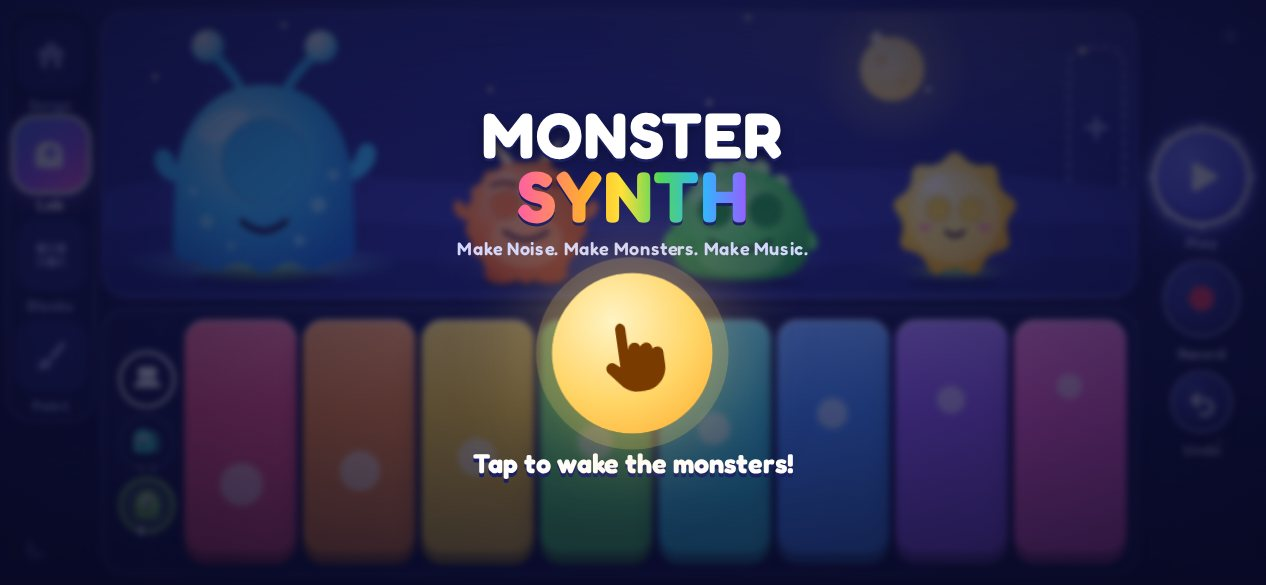
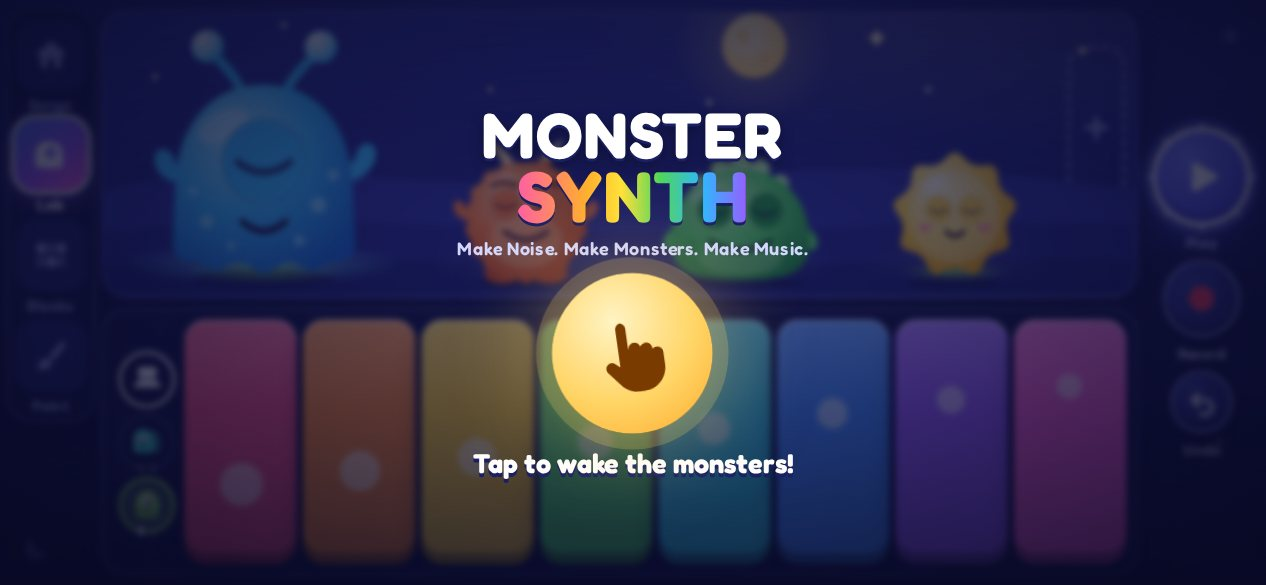
Docs: play time, crash recovery, CLAUDE.md, refreshed screenshots
Claude-Session: https://claude.ai/code/session_01EurLqiisS3gHhUKTWx8FjM

Changed region(s): [[0.5545, 0.0, 0.6469, 0.1538], [0.6777, 0.0615, 0.7393, 0.1846], [0.1848, 0.2769, 0.2464, 0.3077]]

diff --git a/CLAUDE.md b/CLAUDE.md
@@ -1,0 +1,36 @@
+# Monster Synth — working notes
+
+Tablet-first creative music toy for ages 3–10 (React 19 + TypeScript + Vite + Web Audio). Read `README.md` and `docs/` for product and design intent.
+
+## Commands
+
+```bash
+npm run dev          # Vite dev server (port 5173)
+npm run check        # tsc --noEmit + vitest (run before every commit)
+npm run build        # production PWA build → dist/
+npm run build:demo   # single-file embeddable demo → dist-demo/
+npm run e2e          # Playwright checks (needs the dev server running on 127.0.0.1:5173)
+node scripts/touch-check.mjs      # touch events, audio unlock, stuck notes, CPU throttle
+node scripts/audio-levels.mjs     # re-measure preset levels after any sound change
+node scripts/tour.mjs             # screenshots of every screen (phone/tablet/portrait)
+```
+
+Playwright is pinned to 1.56.1 to match the preinstalled Chromium.
+
+## Layer rules (do not break)
+
+- `src/audio/` knows nothing about songs, scales, the store or React.
+- `src/magic/` and `src/model/` are pure: no DOM, no audio nodes. Unit-test them in `tests/`.
+- `src/studio/` is the only place that connects gestures, Monster Magic and the audio engine.
+- UI never touches audio nodes; it calls `studio.*` and listens on `visualBus`.
+
+## Conventions
+
+- Project edits: write a pure function in `src/model/edits.ts`, apply with `commit(p => edit(p, …))` (undo + autosave come for free). Use `{ coalesce: key }` for sliders/swipes, `{ undoable: false }` only inside a `beginGroup`/`endGroup` pair.
+- Zustand selectors must return stable references (select the slice, derive in render) — a selector that builds a new array/object each call loops forever.
+- Per-note animation is imperative (Web Animations API / DOM attributes), never React state.
+- Notes store scale **steps**, not pitches. Pitch is resolved at play time.
+- New sounds are data in `src/audio/presets.ts`; re-run `scripts/audio-levels.mjs` and keep single-note peaks around −6 to −13 dBFS.
+- Any schema change: bump the version, add a migration step and a sanitiser branch in `src/model/schema.ts`, and add a round-trip test.
+- Kids' UX: every touch makes sound or motion; no text is required; nothing destructive without undo; grown-up features live in Parent Space.
+- Privacy: no network calls, analytics, accounts or third-party assets (fonts are self-hosted).

diff --git a/docs/02-user-flows.md b/docs/02-user-flows.md
@@ -67,8 +67,14 @@ Touching a monster on stage plays it directly:
 ## F9 · Grown-up tasks
 
 1. Hold ☾ (bottom-left) and ★ (top-right) together for 3 s → a ring fills → Parent Space opens. (Keyboard users: focus either mark and press Enter → multiplication question.)
-2. Change age mode, volume ceiling, microphone, motion, contrast, hints.
+2. Change age mode, volume ceiling, microphone, motion, contrast, hints, play time.
 3. Rename, copy, delete songs; **Save audio** renders the song offline to a `.wav` (share sheet on tablets, download elsewhere).
+
+## F10 · Play time is up (optional)
+
+1. A grown-up set a play time in Parent Space (off by default).
+2. Only time the app is awake and visible counts. When it runs out, the music stops, the band yawns and falls asleep: *"Time for a break!"* — everything is already saved.
+3. The screen cannot be dismissed by the child; a grown-up holds the two corners, and closing Parent Space starts a fresh session.
 
 ## Recovery flows (no destructive mistakes)
 
@@ -80,3 +86,4 @@ Touching a monster on stage plays it directly:
 | Sent a monster home | It waits on the bench with its loop; invite it back |
 | Started a new song | Old song is still on the shelf |
 | Deleting songs | Only in Parent Space, with confirmation |
+| Something unexpected breaks | A sleepy-monster screen with one "Wake them up again" button; autosave is flushed before restarting |

diff --git a/README.md b/README.md
@@ -22,7 +22,7 @@ A tablet-first creative music toy for children aged about 3–10. It is built fr
 * **Effect buddies**: Echo (delay), Gloop (reverb), Chomper (crunch) and Wiggle (wobble). Each one is animated on the monster.
 * **Two modes**: *Little Monster* (3–5) and *Monster Maker* (6–10, adds speed, mood, more pads and effects, redo, solo and names).
 * **My Songs**: a shelf of song pictures. It autosaves; there is never a save dialog.
-* **Parent Space**: hold ☾ and ★ in the corners for 3 s. It has age mode, a volume ceiling, microphone permission, motion, contrast and hint settings, song management, WAV export and privacy information.
+* **Parent Space**: hold ☾ and ★ in the corners for 3 s. It has age mode, a volume ceiling, microphone permission, motion, contrast and hint settings, an optional play-time limit, song management, WAV export and privacy information.
 * **Safe by design**: no accounts, ads, purchases, chat, tracking or network calls. Everything stays on the device. It installs as an offline PWA.
 
 ## Quick start

diff --git a/docs/01-information-architecture.md b/docs/01-information-architecture.md
@@ -37,6 +37,7 @@ MONSTER SYNTH
           ├── Sound               volume · maximum volume (ceiling) · test sound
           ├── Microphone (Mimic)  permission switch + plain-language explanation
           ├── Comfort & access    motion · high contrast · picture hints
+          ├── Play time           optional limit (15–60 min): the monsters fall asleep when it's up
           ├── Songs               rename · copy · save audio (.wav) · delete
           └── Privacy & storage   what is stored where · storage use · delete all
 ```
